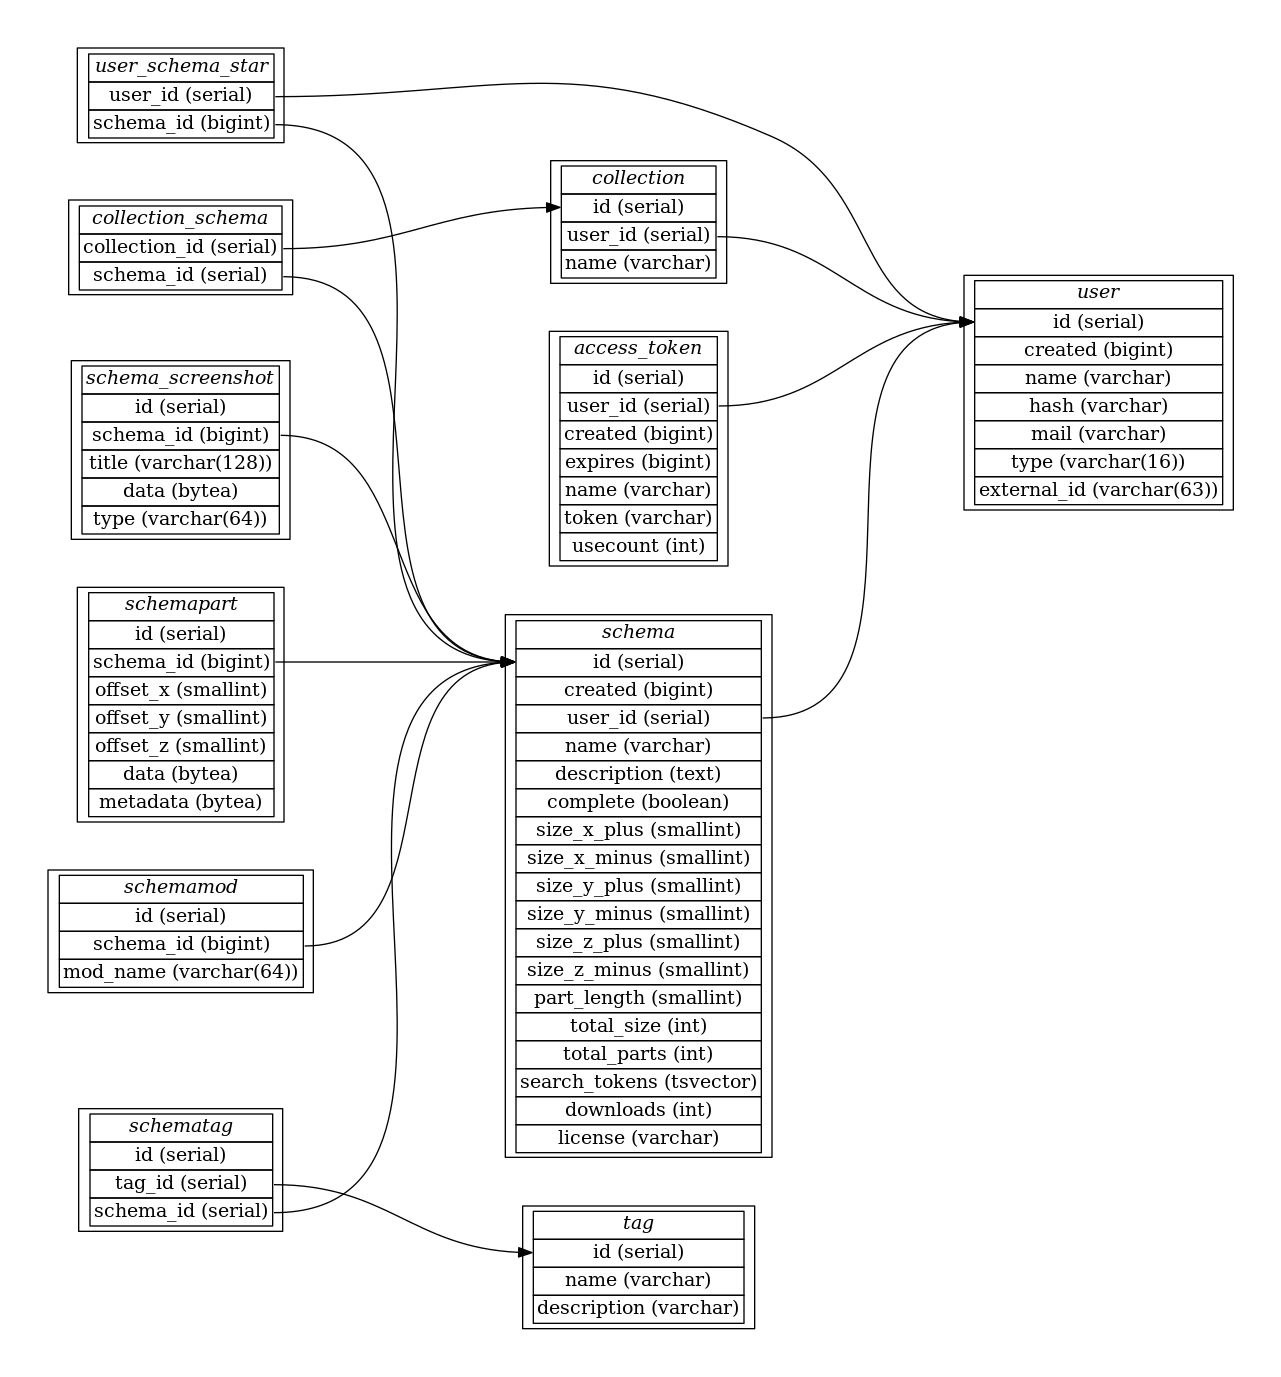
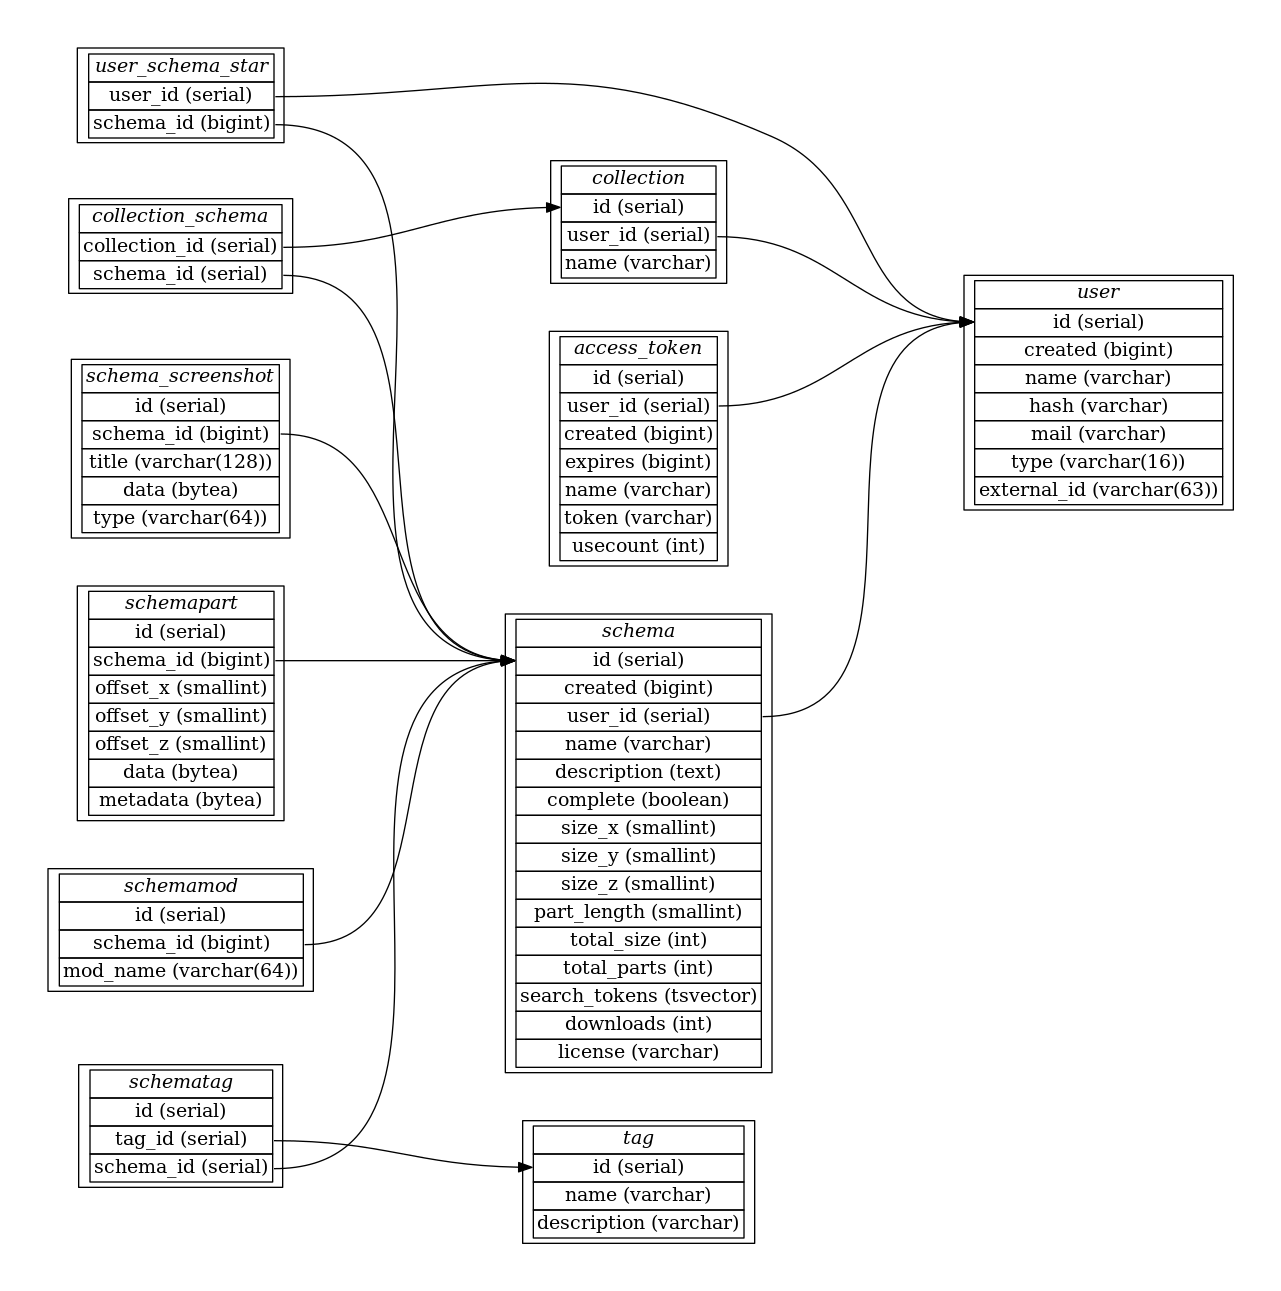
drop the *_minus fields

diff --git a/public/js/components/recent/SchemaCard.js b/public/js/components/recent/SchemaCard.js
@@ -50,9 +50,9 @@ export default {
 				</p>
 				<p>
 					{{ schema.total_size | prettysize }};
-					{{ schema.size_x_plus+schema.size_x_minus }} / 
-					{{ schema.size_y_plus+schema.size_y_minus }} / 
-					{{ schema.size_z_plus+schema.size_z_minus }} nodes
+					{{ schema.size_x }} / 
+					{{ schema.size_y }} / 
+					{{ schema.size_z }} nodes
 				</p>
 				<pre>{{ schema.description }}</pre>
 			</div>

diff --git a/public/js/components/schema/SchemaDetail.js b/public/js/components/schema/SchemaDetail.js
@@ -15,9 +15,9 @@ export default {
 		</li>
 		<li>
 			<b>Dimensions: </b>
-			{{ schema.size_x_plus+schema.size_x_minus }} / 
-			{{ schema.size_y_plus+schema.size_y_minus }} / 
-			{{ schema.size_z_plus+schema.size_z_minus }} nodes
+			{{ schema.size_x }} / 
+			{{ schema.size_y }} / 
+			{{ schema.size_z }} nodes
 		</li>
 		<li>
 			<b>Parts: </b>{{ schema.total_parts }}

diff --git a/types/schema.go b/types/schema.go
@@ -10,12 +10,9 @@ type Schema struct {
 	Name         string `db:"name" json:"name"`
 	Description  string `db:"description" json:"description"`
 	Complete     bool   `db:"complete" json:"complete"`
-	SizeXPlus    int    `db:"size_x_plus" json:"size_x_plus"`
-	SizeXMinus   int    `db:"size_x_minus" json:"size_x_minus"`
-	SizeYPlus    int    `db:"size_y_plus" json:"size_y_plus"`
-	SizeYMinus   int    `db:"size_y_minus" json:"size_y_minus"`
-	SizeZPlus    int    `db:"size_z_plus" json:"size_z_plus"`
-	SizeZMinus   int    `db:"size_z_minus" json:"size_z_minus"`
+	SizeX        int    `db:"size_x" json:"size_x"`
+	SizeY        int    `db:"size_y" json:"size_y"`
+	SizeZ        int    `db:"size_z" json:"size_z"`
 	PartLength   int    `db:"part_length" json:"part_length"`
 	TotalSize    int    `db:"total_size" json:"total_size"`
 	TotalParts   int    `db:"total_parts" json:"total_parts"`
@@ -38,12 +35,9 @@ func (s *Schema) UnmarshalJSON(data []byte) error {
 	s.Description = getString(m["description"])
 	s.License = getString(m["license"])
 	s.Complete = getBool(m["complete"])
-	s.SizeXPlus = getInt(m["size_x_plus"])
-	s.SizeXMinus = getInt(m["size_x_minus"])
-	s.SizeYPlus = getInt(m["size_y_plus"])
-	s.SizeYMinus = getInt(m["size_y_minus"])
-	s.SizeZPlus = getInt(m["size_z_plus"])
-	s.SizeZMinus = getInt(m["size_z_minus"])
+	s.SizeX = getInt(m["size_x"])
+	s.SizeY = getInt(m["size_y"])
+	s.SizeZ = getInt(m["size_z"])
 	s.PartLength = getInt(m["part_length"])
 	s.TotalSize = getInt(m["total_size"])
 	s.TotalParts = getInt(m["total_parts"])

diff --git a/web/schema_test.go b/web/schema_test.go
@@ -22,9 +22,9 @@ func TestSchemaCreateNoUser(t *testing.T) {
 		UserID:      -1,
 		Name:        "my-schema",
 		Description: "something",
-		SizeXPlus:   16,
-		SizeYPlus:   16,
-		SizeZPlus:   16,
+		SizeX:       16,
+		SizeY:       16,
+		SizeZ:       16,
 		License:     "CC0",
 	}
 
@@ -45,9 +45,9 @@ func TestSchemaCreateInvalidUser(t *testing.T) {
 		UserID:      -1,
 		Name:        "my-schema",
 		Description: "something",
-		SizeXPlus:   16,
-		SizeYPlus:   16,
-		SizeZPlus:   16,
+		SizeX:       16,
+		SizeY:       16,
+		SizeZ:       16,
 		License:     "CC0",
 	}
 
@@ -69,9 +69,9 @@ func TestSchemaCreate(t *testing.T) {
 		UserID:      user.ID,
 		Name:        "my-schema",
 		Description: "something",
-		SizeXPlus:   16,
-		SizeYPlus:   16,
-		SizeZPlus:   16,
+		SizeX:       16,
+		SizeY:       16,
+		SizeZ:       16,
 		License:     "CC0",
 	}
 
@@ -130,9 +130,9 @@ func TestSchemaCreateAndDownload(t *testing.T) {
 		UserID:      user.ID,
 		Name:        "my-schema",
 		Description: "something",
-		SizeXPlus:   16,
-		SizeYPlus:   16,
-		SizeZPlus:   16,
+		SizeX:       16,
+		SizeY:       16,
+		SizeZ:       16,
 		License:     "CC0",
 	}
 

diff --git a/core/feed.go b/core/feed.go
@@ -15,7 +15,7 @@ const template_str = `
 Schema created: **{{.Schema.Name}}** by **{{.User.Name}}**
 Link: {{.BaseURL}}/api/static/schema/{{.User.Name}}/{{.Schema.Name}}
 License: **{{.Schema.License}}**
-Size: {{sizex .Schema}}/{{sizey .Schema}}/{{sizez .Schema}} Blocks / {{.Schema.TotalSize}} bytes
+Size: {{.Schema.SizeX}}/{{.Schema.SizeY}}/{{.Schema.SizeZ}} Blocks / {{.Schema.TotalSize}} bytes
 Download:
 {{.CodeMarker}}
 /bx_load {{.User.Name}} {{.Schema.Name}}
@@ -29,18 +29,7 @@ Description:
 Preview: {{.BaseURL}}/api/schema/{{.Schema.ID}}/screenshot/{{.Screenshot.ID}}
 `
 
-var funcMap = template.FuncMap{
-	"sizex": func(schema types.Schema) int {
-		return schema.SizeXMinus + schema.SizeXPlus
-	},
-	"sizey": func(schema types.Schema) int {
-		return schema.SizeYMinus + schema.SizeYPlus
-	},
-	"sizez": func(schema types.Schema) int {
-		return schema.SizeZMinus + schema.SizeZPlus
-	},
-}
-var feed_template = template.Must(template.New("main").Funcs(funcMap).Parse(template_str))
+var feed_template = template.Must(template.New("main").Parse(template_str))
 
 type TemplateData struct {
 	Schema     *types.Schema

diff --git a/db/schema.go b/db/schema.go
@@ -54,16 +54,14 @@ func (repo DBSchemaRepository) CreateSchema(schema *types.Schema) error {
 		insert into
 		schema(
 			created, user_id, name, description, complete,
-			size_x_plus, size_y_plus, size_z_plus,
-			size_x_minus, size_y_minus, size_z_minus,
+			size_x, size_y, size_z,
 			part_length,
 			total_size, total_parts, license,
 			search_tokens
 		)
 		values(
 			:created, :user_id, :name, :description, :complete,
-			:size_x_plus, :size_y_plus, :size_z_plus,
-			:size_x_minus, :size_y_minus, :size_z_minus,
+			:size_x, :size_y, :size_z,
 			:part_length,
 			:total_size, :total_parts, :license,
 			to_tsvector(:description)

diff --git a/render/renderer.go b/render/renderer.go
@@ -38,9 +38,9 @@ func (r *Renderer) RenderSchema(schema *types.Schema) ([]byte, error) {
 	timer := prometheus.NewTimer(renderHistogram)
 	defer timer.ObserveDuration()
 
-	size_x := schema.SizeXMinus + schema.SizeXPlus
-	size_y := schema.SizeYMinus + schema.SizeYPlus
-	size_z := schema.SizeZMinus + schema.SizeZPlus
+	size_x := schema.SizeX
+	size_y := schema.SizeY
+	size_z := schema.SizeZ
 
 	img_center_x := img_size_x / (size_x + size_z) * size_z
 	img_center_y := img_size_y

diff --git a/render/renderer_test.go b/render/renderer_test.go
@@ -39,10 +39,10 @@ func TestRenderer(t *testing.T) {
 
 	renderer := NewRenderer(repo.GetBySchemaIDAndOffset, cm)
 	schema := types.Schema{
-		SizeXPlus: 32,
-		SizeYPlus: 32,
-		SizeZPlus: 32,
-		ID:        0,
+		SizeX: 32,
+		SizeY: 32,
+		SizeZ: 32,
+		ID:    0,
 	}
 	png, err := renderer.RenderSchema(&schema)
 	assert.NoError(t, err)

diff --git a/core/feed_test.go b/core/feed_test.go
@@ -12,9 +12,9 @@ func TestRenderFeedTemplate(t *testing.T) {
 	schema := types.Schema{
 		Name:       "my_schema",
 		License:    "CC0",
-		SizeXPlus:  100,
-		SizeYPlus:  200,
-		SizeZPlus:  300,
+		SizeX:      100,
+		SizeY:      200,
+		SizeZ:      300,
 		TotalSize:  2300,
 		TotalParts: 16,
 	}

diff --git a/core/bx_export_test.go b/core/bx_export_test.go
@@ -30,10 +30,10 @@ func TestExportBXSchema(t *testing.T) {
 	}
 
 	schema := types.Schema{
-		Name:      "",
-		SizeXPlus: 16,
-		SizeYPlus: 16,
-		SizeZPlus: 16,
+		Name:  "",
+		SizeX: 16,
+		SizeY: 16,
+		SizeZ: 16,
 	}
 
 	mods := []types.SchemaMod{
